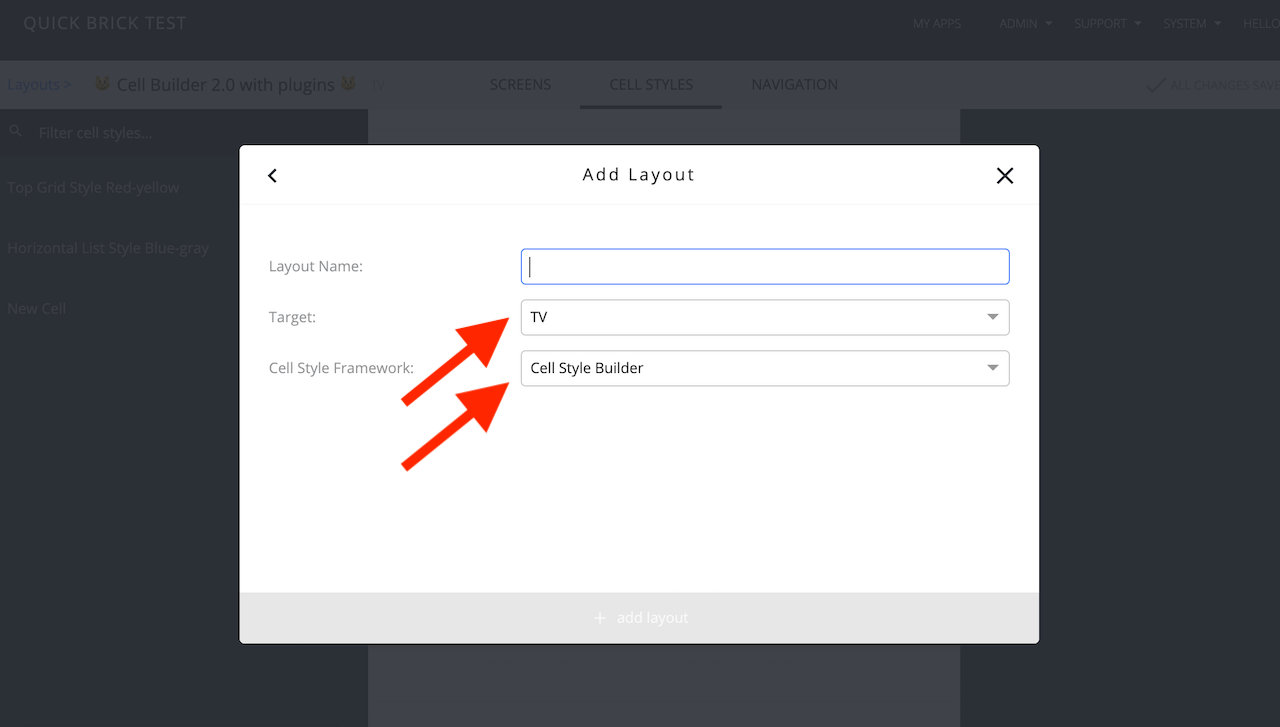
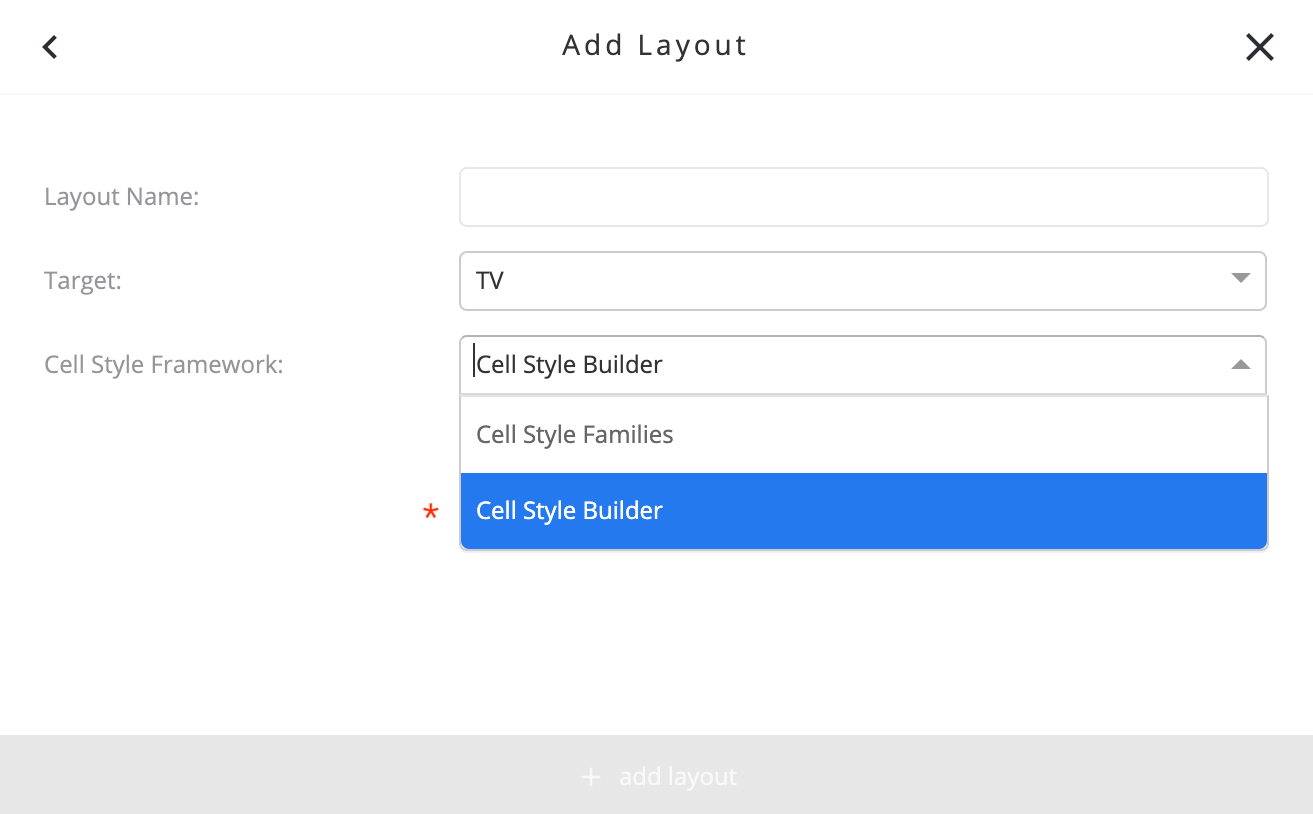
feat(cell styles builder): complete how-to tutorial

diff --git a/book/quick-brick/cell-styles-builder/layouts-with-cell-builder-plugins.md b/book/quick-brick/cell-styles-builder/layouts-with-cell-builder-plugins.md
@@ -1,4 +1,4 @@
-# Layouts with cell styles builder + cell builder plugins
+# Layouts with cell styles builder & cell builder plugins
 
 ### Supported platforms[^1]
 - [x] tvOS
@@ -11,8 +11,25 @@ The primary repo for cell builder plugins is [applicaster/demo-cell-builder-plug
 
 ## UI Builder
 
+1. **Add Layout:** Select "TV" target and "Cell Style Builder" framework.
+    <img src="./assets/01-new-layout.png" width="500" style="border: 1px solid #eee; display: block; margin: 12px auto;" />
+1. **Organize UI Components:** This stage is indentical to the "Cell Styles Family" framework - create screens and fill them with UI components.
+1. **Cell Styles Tab:** Click on the "CELL STYLES" tab, and click on "New Cell Style" button at the bottom-left corner
+    <img src="./assets/02-cell-styles-tab.png" width="500" style="border: 1px solid #eee; display: block; margin: 12px auto;" />
+1. **Add Cell Builder Plugin:** Select the default cell builder plugin, or any other plugin of type `cell_builder` which is available for this app. The plugin will be added to all the relevant app versions in the respective platforms[^3]:.
+    <img src="./assets/03-add-cell-builder-plugin.png" width="500" style="border: 1px solid #eee; display: block; margin: 12px auto;" />
+1. **Edit Created Cell Style:** Each cell style created in this tab can be configured via the configuration panel on the right. The capabilities of each `cell_builder` plugin will be reflected in the fields that can be manipulated. Here is shown a basic example - a cell with fixed, pre-determined design in terms of ratio, text & and image positioning, and a configurable background color for two states - "default" and "focused".
+    <img src="./assets/04-edit-cell-style.png" width="500" style="border: 1px solid #eee; display: block; margin: 12px auto;" />
+1. **Edit Name & Description:** It is recommended to give each cell style a proper name and description, via the "EDIT INFO" dropdown. This will help a great deal when assigning a cell style to a UI component in the next step.
+   <img src="./assets/05-edit-info-dropdown.png" width="500" style="border: 1px solid #eee; display: block; margin: 12px auto;" />
+   <img src="./assets/06-edit-modal.png" width="500" style="border: 1px solid #eee; display: block; margin: 12px auto;" />
+1. **Assign Cell Style to UI Component:** Switch to the "SCREENS" tab select a UI component. A "Cell Styles" button will appear in under the "STYLES" section in the configuration panel. Click on it and the select the desired cell style that was created in the previous steps. As you can see, having proper name and description for each cell style is quite helpful here. Clicking on the "Manage My Cell Styles" section in the modal will redirect you back to the "CELL STYLES" tab.
+   <img src="./assets/07-ui-component-configuration.png" width="500" style="border: 1px solid #eee; display: block; margin: 12px auto;" />
+   <img src="./assets/08-assign-cell-style-modal.png" width="500" style="border: 1px solid #eee; display: block; margin: 12px auto;" />
+1. **Save & Build:** Don't forget to save frequently. Each change in the cell styles builder, including creation or assignment, requires re-triggering a build of the app version[^3] using this particular layout.
 
 ---
 
-[^1]: There is a plan to extend the support also to mobile platforms.
-[^2]: Pull requests are welcomed! Any change in that repo will benefit ALL supported platforms
+[^1]: There is a plan to extend the support also to mobile platforms
+[^2]: Pull requests are welcomed! Any change in that repo will benefit _all_ supported platforms
+[^3]: The created cell styles are _scoped_ to a particular _layout_, and are not interchangeable between layouts
